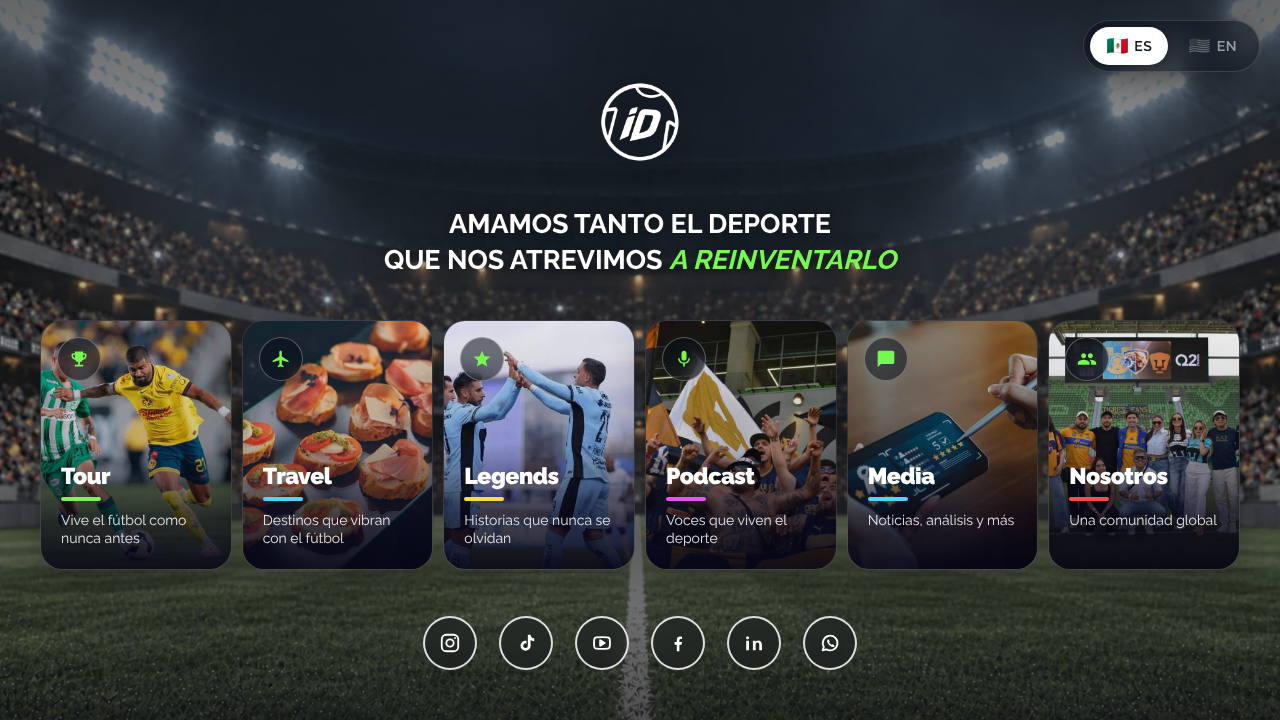
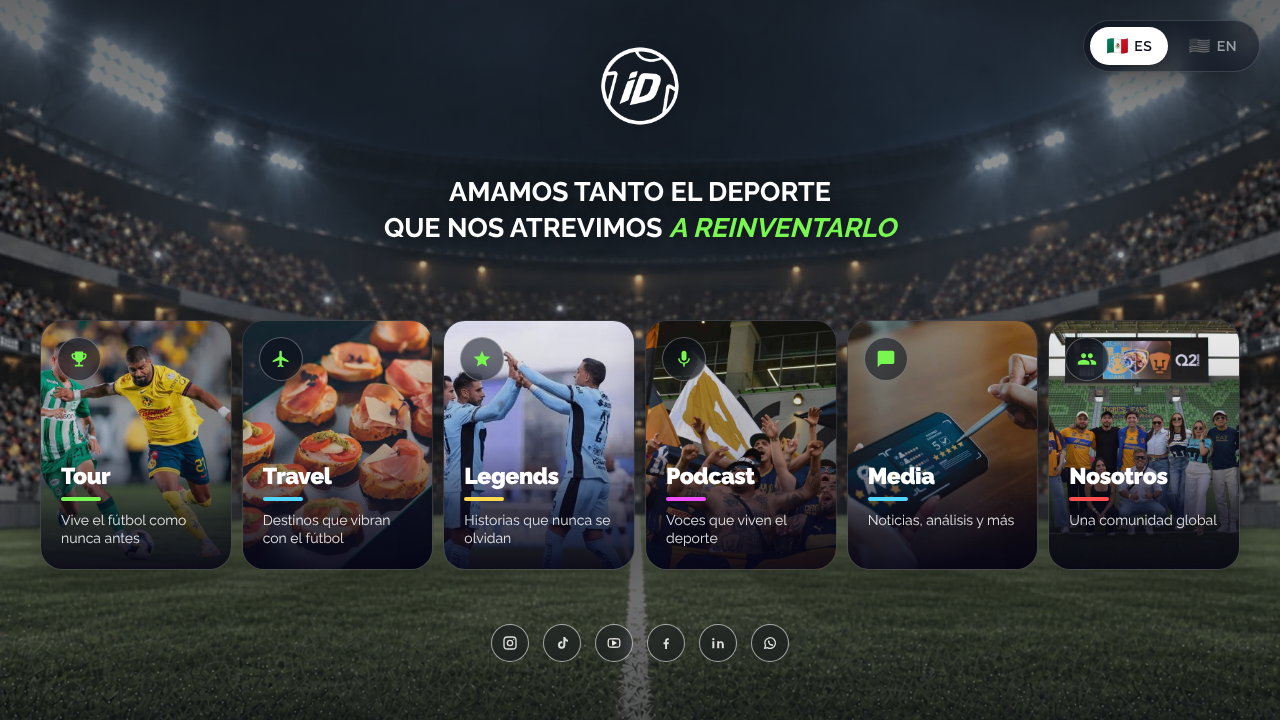
Inicio: isotipo y lema más arriba, redes más chicas
El bloque de arriba tenía mucho aire sobre él y quedaba pegado a las
puertas; ahora sube y respira hacia abajo. Las redes bajan de 54 a 38 px,
con trazo más fino: son un pie, no un bloque.

Claude-Session: https://claude.ai/code/session_01TBS5J98YBvjYTTdc9XtUtE

Changed region(s): [[0.2812, 0.2444, 0.7188, 0.3972], [0.3125, 0.8556, 0.6562, 0.9472], [0.4688, 0.0611, 0.5312, 0.2139]]

diff --git a/assets/css/inicio.css b/assets/css/inicio.css
@@ -28,10 +28,10 @@ body .lang-btn:not(.active) .lang-flag { filter: grayscale(1) opacity(0.6); }
    seis puertas se montan encima con margen negativo, de modo que la
    primera pantalla ya lo tiene todo: no hay que bajar para elegir. */
 .hero-logo-text img { filter: drop-shadow(0 10px 30px rgba(0,0,0,0.5)); }
-.hero-section { height: auto; min-height: 100vh; align-items: flex-start; padding-top: clamp(80px, 11vh, 120px); }
-/* El fondo del mockup: el estadio se ve entero, en frío y apagado, con el
-   pasto y la línea central a la vista abajo. Un velo azul marino parejo,
-   apenas más denso arriba, y nada de degradado negro al pie. */
+/* Isotipo y lema arriba, con poco aire sobre ellos y más hacia las puertas. */
+.hero-section { height: auto; min-height: 100vh; align-items: flex-start; padding-top: clamp(44px, 5.5vh, 64px); }
+.hero-logo-text { margin-bottom: 14px; }
+.hero-logo-text img { width: clamp(84px, 7vw, 104px); height: auto; }
 /* Calibrado contra el mockup midiendo cielo, gradas y pasto: la foto se
    levanta (brillo 1.25, un poco de sepia para que la gente de las gradas
    se vea cálida) y encima va un velo neutro, denso en el cielo y en el
@@ -86,16 +86,17 @@ body .lang-btn:not(.active) .lang-flag { filter: grayscale(1) opacity(0.6); }
 /* En escritorio las redes son seis círculos centrados bajo las puertas, como
    en el mockup. Para dejarles el centro, la píldora del próximo partido (del
    layout, fija) se recorre a la izquierda sólo en esta página. */
-.redes-v2 { position: relative; z-index: 4; height: 150px; padding: 46px 40px 0; }
+/* Chicas y discretas: son un pie, no un bloque. */
+.redes-v2 { position: relative; z-index: 4; height: 150px; padding: 54px 40px 0; }
 .redes-v2 .section-header { display: none; }
-.redes-v2__grid { display: flex; justify-content: center; gap: 22px; }
+.redes-v2__grid { display: flex; justify-content: center; gap: 14px; }
 .redes-v2__chip {
-  width: 54px; height: 54px; border-radius: 50%; display: flex; align-items: center; justify-content: center;
-  color: #fff; text-decoration: none; border: 2px solid rgba(255,255,255,0.85); background: rgba(8,12,24,0.35);
+  width: 38px; height: 38px; border-radius: 50%; display: flex; align-items: center; justify-content: center;
+  color: rgba(255,255,255,0.85); text-decoration: none; border: 1.5px solid rgba(255,255,255,0.6); background: rgba(8,12,24,0.35);
   backdrop-filter: blur(8px); -webkit-backdrop-filter: blur(8px);
   transition: transform .2s, background .2s, border-color .2s, color .2s;
 }
-.redes-v2__chip svg { width: 22px; height: 22px; }
+.redes-v2__chip svg { width: 16px; height: 16px; }
 .redes-v2__chip span, .redes-v2__chip small { display: none; }
 .redes-v2__chip:hover { transform: translateY(-3px); background: var(--brand-lime); border-color: var(--brand-lime); color: #0b1020; }
 .footer-content { display: flex; align-items: center; justify-content: space-between; gap: 16px; flex-wrap: wrap; max-width: 1200px; margin: 0 auto; padding: 24px 20px; color: rgba(255,255,255,0.6); font-size: 13px; }
@@ -114,7 +115,7 @@ body .lang-btn:not(.active) .lang-flag { filter: grayscale(1) opacity(0.6); }
    primera pantalla, en dos columnas y tres filas. La banda de abajo es de
    la píldora del partido. */
 @media (max-width: 1024px) {
-  .hero-section { padding-top: 84px; }
+  .hero-section { padding-top: 56px; }
   .hero-logo-text img { width: 72px; height: 72px; }
   .puertas { --alto: clamp(330px, calc(100vh - 370px), 560px); display: grid; grid-template-columns: 1fr 1fr; grid-template-rows: repeat(3, 1fr); gap: 10px; width: calc(100% - 32px); margin: calc(-1 * var(--alto) - 90px) auto 0; }
   .puerta { flex: none; border-radius: 18px; }
@@ -128,8 +129,8 @@ body .lang-btn:not(.active) .lang-flag { filter: grayscale(1) opacity(0.6); }
   .puerta__icono svg { width: 16px; height: 16px; }
   .redes-v2 { height: 90px; margin-top: 0; padding: 18px 16px 0; }
   .redes-v2__grid { gap: 10px; }
-  .redes-v2__chip { width: 46px; height: 46px; }
-  .redes-v2__chip svg { width: 20px; height: 20px; }
+  .redes-v2__chip { width: 36px; height: 36px; }
+  .redes-v2__chip svg { width: 15px; height: 15px; }
   /* El lateral se comporta como en la original: aparece al bajar. */
   .dot-nav--inicio { display: flex; }
 }
